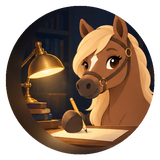
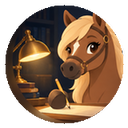
[fast-deploy] [writing-release] Smooth Phoebe writing GIF with 48 frames

diff --git a/writing-submission.html b/writing-submission.html
@@ -20,7 +20,7 @@
   <link rel="apple-touch-icon" sizes="152x152" href="/assets/icons/apple-touch-icon-152x152.png">
   <link rel="stylesheet" href="/pwa-ui.css">
   <script defer src="/pwa-register.js"></script>
-  <link rel="stylesheet" href="writing-submission.css?v=20261021-phoebe-study-room">
+  <link rel="stylesheet" href="writing-submission.css?v=20261021-phoebe-smooth-48">
   <link rel="stylesheet" href="learning-word-bookmarks.css?v=20260901-word-brush1">
   <link rel="stylesheet" href="shared-system-nav.css?v=20260924-wallet1">
 </head>
@@ -42,8 +42,8 @@
       <div class="header-actions edmund-system-header__actions">
         <button class="phoebe-writing-toggle" type="button" data-phoebe-writing-toggle data-visible="true" aria-label="隱藏 Phoebe 寫字動畫" aria-pressed="true" title="點擊隱藏 Phoebe 寫字動畫；再點擊可顯示">
           <picture class="phoebe-writing-art">
-            <source media="(prefers-reduced-motion: reduce)" srcset="writing-phoebe-writing-still.png?v=20261021-study-room">
-            <img src="writing-phoebe-writing.gif?v=20261021-study-room" width="78" height="78" alt="Phoebe 在書房桌燈旁寫字">
+            <source media="(prefers-reduced-motion: reduce)" srcset="writing-phoebe-writing-still.png?v=20261021-smooth-48">
+            <img src="writing-phoebe-writing.gif?v=20261021-smooth-48" width="78" height="78" alt="Phoebe 在書房桌燈旁寫字">
           </picture>
           <span class="phoebe-writing-lamp-glow" aria-hidden="true"></span>
           <span class="phoebe-writing-restore" aria-hidden="true">✎</span>
@@ -746,6 +746,6 @@
   <script src="shared-system-nav.js?v=20260924-wallet1"></script>
   <script src="learning-word-bookmarks.js?v=20260901-word-brush1"></script>
   <script src="video-class-zip.js?v=20261019-admin-archive1"></script>
-  <script type="module" src="writing-submission.js?v=20261021-phoebe-study-room"></script>
+  <script type="module" src="writing-submission.js?v=20261021-phoebe-smooth-48"></script>
 </body>
 </html>

diff --git a/writing-submission.css b/writing-submission.css
@@ -146,7 +146,7 @@ button { color: inherit; }
 .phoebe-writing-art,
 .phoebe-writing-art img { display: block; width: 100%; height: 100%; border-radius: 50%; }
 .phoebe-writing-art img { object-fit: cover; }
-.phoebe-writing-lamp-glow { position: absolute; left: 10%; top: 27%; width: 32%; height: 29%; border-radius: 50%; background: radial-gradient(circle, #fff2b7a8 0%, #f6b64f64 40%, transparent 75%); filter: blur(4px); opacity: .22; mix-blend-mode: screen; pointer-events: none; animation: phoebe-study-lamp-bloom 2.1s ease-in-out infinite; }
+.phoebe-writing-lamp-glow { position: absolute; left: 10%; top: 27%; width: 32%; height: 29%; border-radius: 50%; background: radial-gradient(circle, #fff2b7a8 0%, #f6b64f64 40%, transparent 75%); filter: blur(4px); opacity: .22; mix-blend-mode: screen; pointer-events: none; animation: phoebe-study-lamp-bloom 2s ease-in-out infinite; }
 @keyframes phoebe-study-lamp-bloom {
   0%, 100% { opacity: .18; transform: scale(.9); }
   50% { opacity: .5; transform: scale(1.18); }

diff --git a/writing-submission.js b/writing-submission.js
@@ -3768,7 +3768,7 @@ function initialisePhoebeWritingToggle() {
   if (!button) return;
   const image = button.querySelector('img');
   const gifSrc = image.getAttribute('src');
-  const stillSrc = 'writing-phoebe-writing-still.png?v=20261021-study-room';
+  const stillSrc = 'writing-phoebe-writing-still.png?v=20261021-smooth-48';
   const storageKey = 'edmund-writing-phoebe-visible';
   let visible = true;
   try { visible = localStorage.getItem(storageKey) !== 'false'; } catch { /* Storage may be unavailable. */ }
